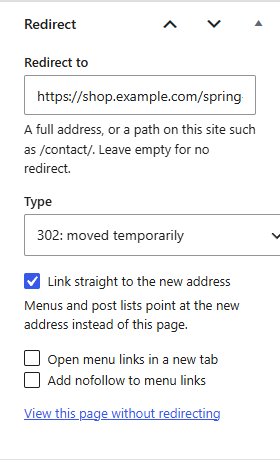
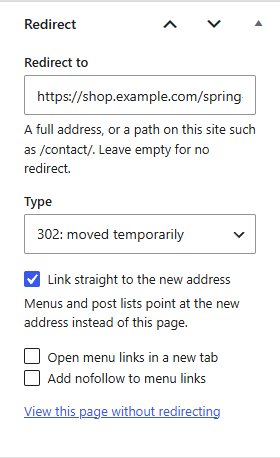
Keep the Redirect box fields inside the editor sidebar
The type select was wider than the block editor sidebar and caused a
horizontal scrollbar. Size the box's text field and select to the box,
and retake the edit screen screenshot.

diff --git a/assets/admin.css b/assets/admin.css
@@ -4,6 +4,14 @@
 	margin-bottom: 4px;
 }
 
+.rtap-box input[type="text"],
+.rtap-box select {
+	box-sizing: border-box;
+	width: 100%;
+	max-width: 100%;
+	min-width: 0;
+}
+
 .rtap-box .description {
 	display: block;
 	margin-top: 4px;
